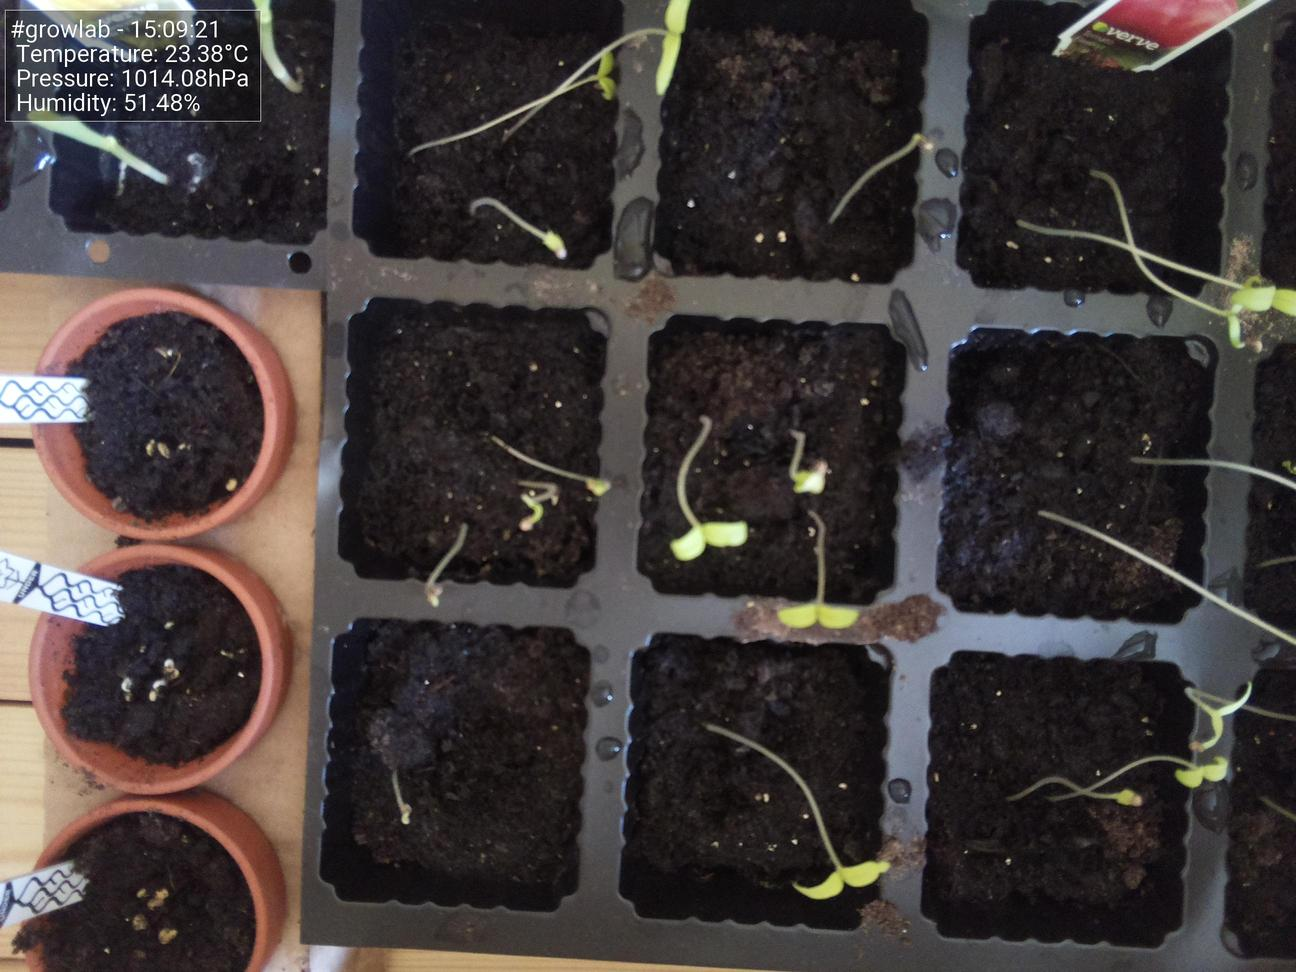
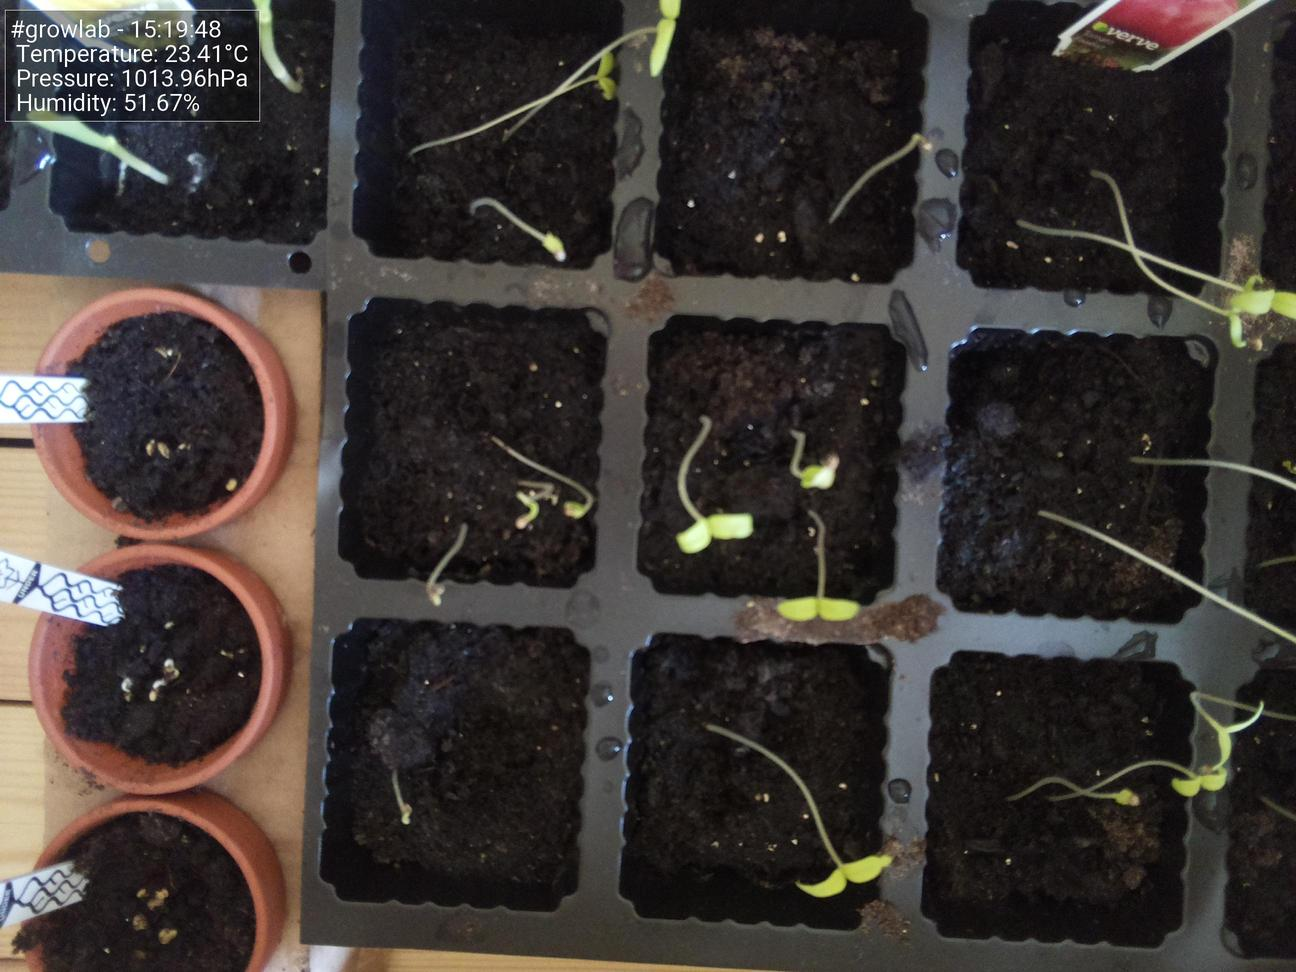
Update images at Mon 31 May 15:20:03 BST 2021

diff --git a/index.html b/index.html
@@ -47,19 +47,19 @@
                         <tbody>
                             <tr>
                                 <td>Time</td>
-                                <td>15:09:21</td>
+                                <td>15:19:48</td>
                             </tr>
                             <tr>
                                 <td>Temperature</td>
-                                <td>23.38°C</td>
+                                <td>23.41°C</td>
                             </tr>
                             <tr>
                                 <td>Humidity</td>
-                                <td>51.48%</td>
+                                <td>51.67%</td>
                             </tr>
                             <tr>
                                 <td>Pressure</td>
-                                <td>1014.08hPa</td>
+                                <td>1013.96hPa</td>
                             </tr>
                         </tbody>
                     </table>
@@ -67,7 +67,7 @@
 
                 <h5>Latest image</h5>
                 <div style="width: 85%;">
-                            <img class="figure-img img-fluid rounded" src="./preview.jpg?uid=1622470176.188229">
+                            <img class="figure-img img-fluid rounded" src="./preview.jpg?uid=1622470802.893228">
                 </div>
             </div>
         </div>
